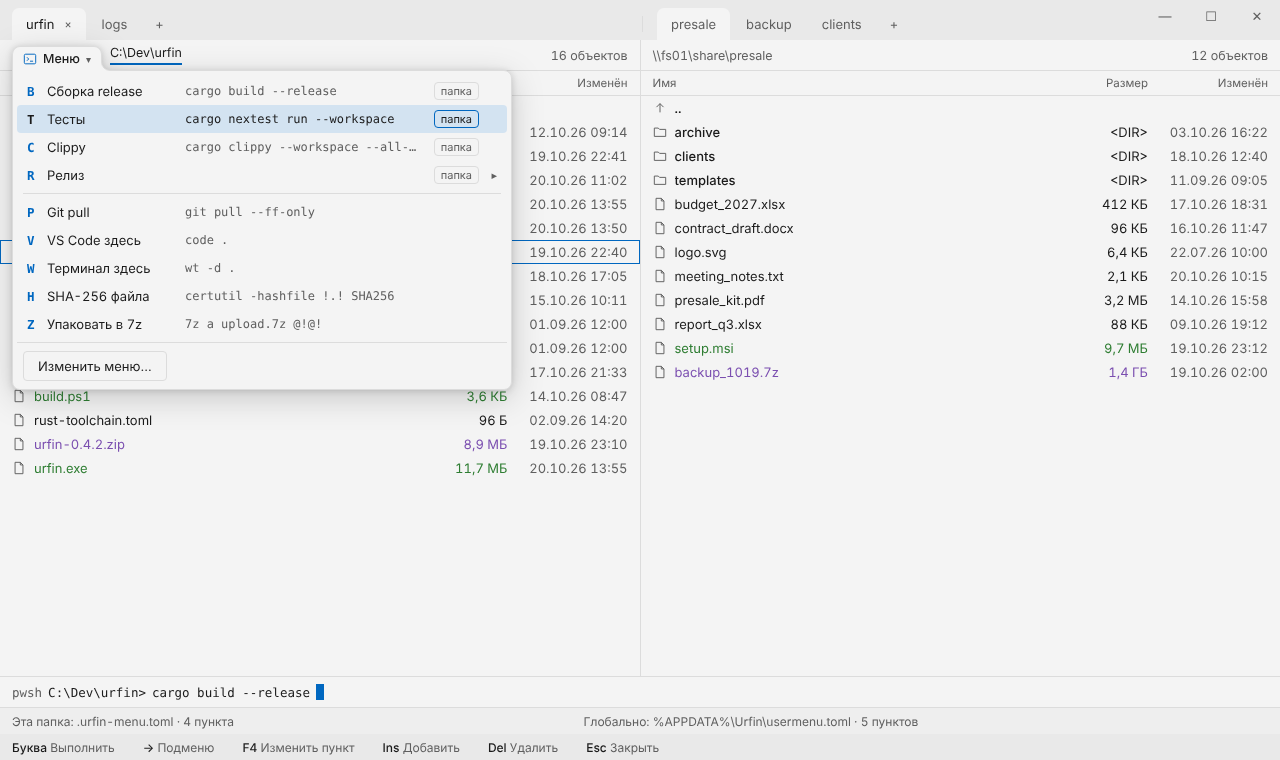
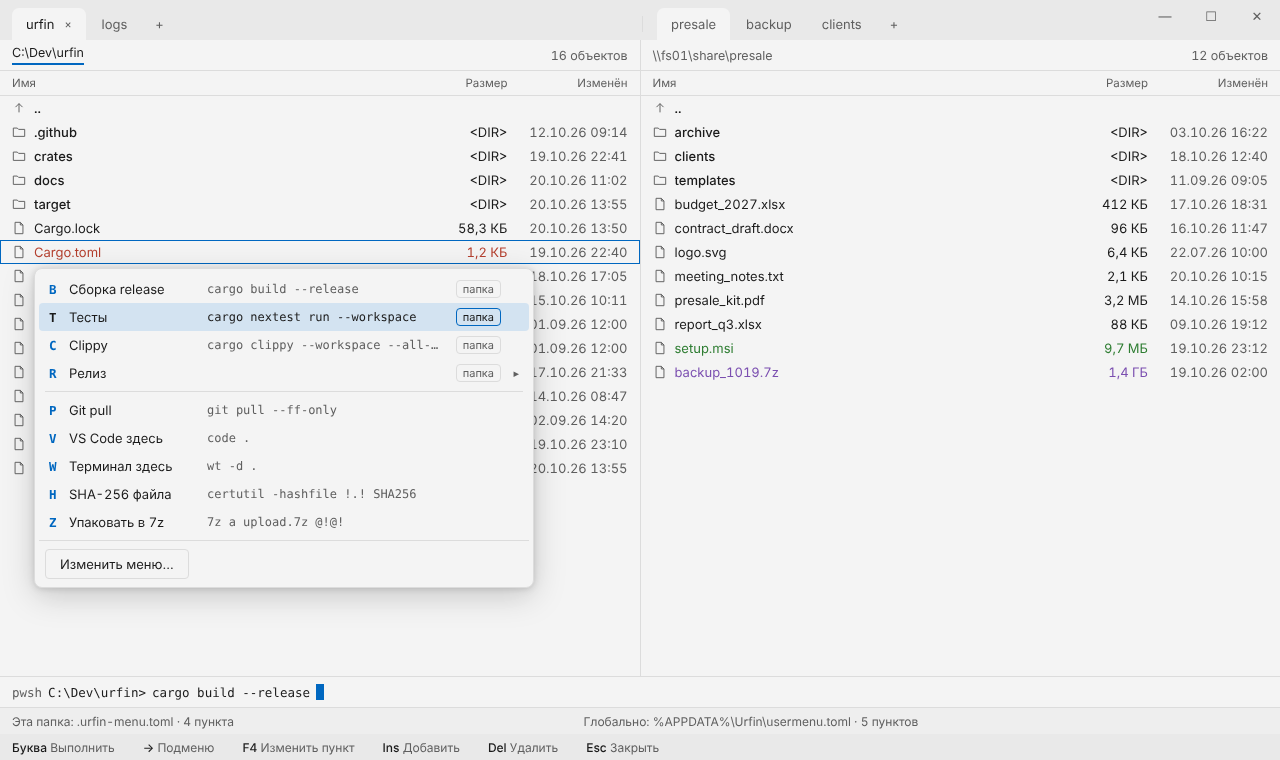
design: F2 user menu as a plate under the cursor row (no anchor)
Claude-Session: https://claude.ai/code/session_013ZpcYnbJMYkHW4aMDDmFTq

diff --git a/docs/design/window.dc.html b/docs/design/window.dc.html
@@ -113,9 +113,7 @@ body{margin:0}
 </span>
 </sc-if>
 <sc-if value="{{pn.umBag}}" hint-placeholder-val="{{ false }}">
-<span style="position: relative; display: flex; {{popShadow}}">
-<button type="button" style="{{umAnchor}}"><span style="display: inline-flex; color: {{t.a}}"><svg width="14" height="14" viewBox="0 0 16 16" aria-hidden="true"><rect x="1.5" y="2.5" width="13" height="11" rx="1.5" fill="none" stroke="currentColor" stroke-width="1.1"></rect><path d="M4.5 6l2 2-2 2 M8 10.5h3.5" fill="none" stroke="currentColor" stroke-width="1.1"></path></svg></span>Меню<span style="color: {{t.s}}; font-size: 10px">▾</span></button>
-<svg width="9" height="9" viewBox="0 0 9 9" aria-hidden="true" style="position: absolute; right: -8px; top: calc(100% - 8px); z-index: 3; transform: scaleX(-1)"><path d="M0 9V8.5A8.5 8.5 0 0 0 8.5 0H9V9Z" fill="{{t.p}}"></path><path d="M0 8.5A8.5 8.5 0 0 0 8.5 0" fill="none" stroke="{{t.b}}"></path></svg>
+<span style="{{umWrap}}">
 <div style="{{umList}}">
 <sc-for list="{{umItems}}" as="um" hint-placeholder-count="11">
 <sc-if value="{{um.sep}}" hint-placeholder-val="{{ false }}"><div style="height: 1px; margin: 4px 6px; background: {{t.b}}"></div></sc-if>
@@ -1135,7 +1133,8 @@ tagStyle: "padding: 0 6px; border-radius: 4px; border: 1px solid " + (isC ? t.a 
 subStyle: "width: 8px; flex: none; text-align: right; font-size: 11px; color: " + (isC ? t.ct : t.s) }; });
 const umVals = { umOn, umItems, umEdit: screen === "usermenuedit",
 umAnchor: "position: relative; z-index: 2; height: 25px; margin-bottom: -1px; padding: 0 10px 1px; display: flex; align-items: center; gap: 6px; border: 1px solid " + t.b + "; border-bottom: 0; border-radius: 8px 8px 0 0; background: " + t.p + "; color: " + t.t + "; font: inherit; font-weight: 500",
-umList: "position: absolute; left: 0; top: 100%; width: 500px; padding: 6px 4px 4px; box-sizing: border-box; background: " + t.p + "; border: 1px solid " + t.b + "; border-radius: 0 8px 8px 8px; display: flex; flex-direction: column; z-index: 1; font-size: 13px; font-weight: 400",
+umWrap: "position: absolute; left: 34px; top: " + (33 + 25 + (6 + 1) * rowH + 2) + "px; display: flex; z-index: 6; " + popShadow,
+umList: "position: relative; width: 500px; padding: 6px 4px 4px; box-sizing: border-box; background: " + t.p + "; border: 1px solid " + t.b + "; border-radius: 8px; display: flex; flex-direction: column; z-index: 1; font-size: 13px; font-weight: 400",
 umLab: "width: 64px; flex: none; font-weight: 500; white-space: nowrap",
 umSubs: [["!.!","имя"],["!@!","список отмеченных"],["!\\","папка"]].map(([k, v]) => ({ k, v })) };
 const STATUS = {

diff --git a/docs/design/DESIGN.md b/docs/design/DESIGN.md
@@ -75,7 +75,7 @@
 | `screen-history.png` | Alt+F12: такой же «мешочек», недавние сверху, имя + родитель `secondary` + время справа; поиск по вводу, совпадение `highlight`; кнопок нет (Del, Shift+Enter — в keybar) | D-05 |
 | `screen-help.png` | F1: вкладка по каркасу настроек; дерево разделов 240 слева, статья до 760 (поиск, заголовок 20/600, таблица меток моно, блок «Пример» на `header`); открывается на разделе, из которого нажали F1 (видно в статус-строке) | D-08 |
 | `screen-about.png` | Раздел настроек «О программе»: иконка 80 (свои цвета — ассет, не роли темы; утверждено), «Урфин», версия и дата сборки, «Работает полностью офлайн»; строки 44: Лицензия, Сторонние компоненты (Список), Папка настроек (Открыть), Журнал (Открыть); подпись «© ГГГГ Антон Антропов»; ссылок в интернет нет. **Значения только реальные**: версия, лицензия, автор — из `Cargo.toml` при сборке; список компонентов — генерируется при сборке для windows-x64 (third-party notices, S9); пути — фактические (`%APPDATA%\Urfin`, `%LOCALAPPDATA%\Urfin\logs`, S1); выдуманных счётчиков нет | D-08 |
-| `screen-usermenu.png` | F2: «мешочек» от корешка «Меню ▾» слева в заголовке панели, список 500, строки 28: буква моно `accent`, название, команда моно `secondary` с «…», метка «папка» у пунктов из `.urfin-menu.toml`, ▸ подменю; разделитель — глобальные пункты; «Изменить меню…» (открывает файл меню в редакторе); F4 — правка пункта, Ins/Del | D-05 / S6 |
+| `screen-usermenu.png` | F2: плашка 500 с тенью под строкой курсора (якоря нет — корешка нет; команды работают с файлом под курсором, `!.!`); при вызове мышью из keybar — «мешочек» от ячейки F2, строки 28: буква моно `accent`, название, команда моно `secondary` с «…», метка «папка» у пунктов из `.urfin-menu.toml`, ▸ подменю; разделитель — глобальные пункты; «Изменить меню…» (открывает файл меню в редакторе); F4 — правка пункта, Ins/Del | D-05 / S6 |
 | `screen-usermenuedit.png` | Правка пункта (F4 в меню): строка внизу панели, подписи 64 в колонку — Клавиша, Название; Команда (моно); чипы подстановок `!.!` имя, `!@!` отмеченные, `!\` папка + предпросмотр раскрытой команды; Где: Глобально / Эта папка; Сохранить / Отмена | D-04 / S6 |
 | `screen-pack.png`, `screen-pack-pw.png` | Shift+F1: строка на всю ширину по образцу F5 — «Упаковать N · размер в» + **формат слева** (`zip ▾`, рядом с началом строки — короткий путь мыши) + имя архива с расширением (в другой панели) (на запись только zip, 7z, tar.zst, tar.gz — S8); сжатие сегментами Быстро/Обычно/Макс; «Пароль» → поле + «AES-256» (только zip/7z); solid — только для 7z; «Удалить исходные после» (утверждено) | D-04 / S8 (M5b) |
 | `screen-columns.png` | Ctrl+F9 / правый клик по заголовку: «мешочек» 270 с тенью, корешок — сама ячейка заголовка колонки, на которой вызвали, строки 28: включённые сверху (Имя — всегда, неактивен) с ручкой ⋮⋮, ниже выключенные, в т. ч. Тип; «Владелец — медленнее в сети»; «Как по умолчанию»; Alt+↑↓ — порядок с клавиатуры | D-03 |
